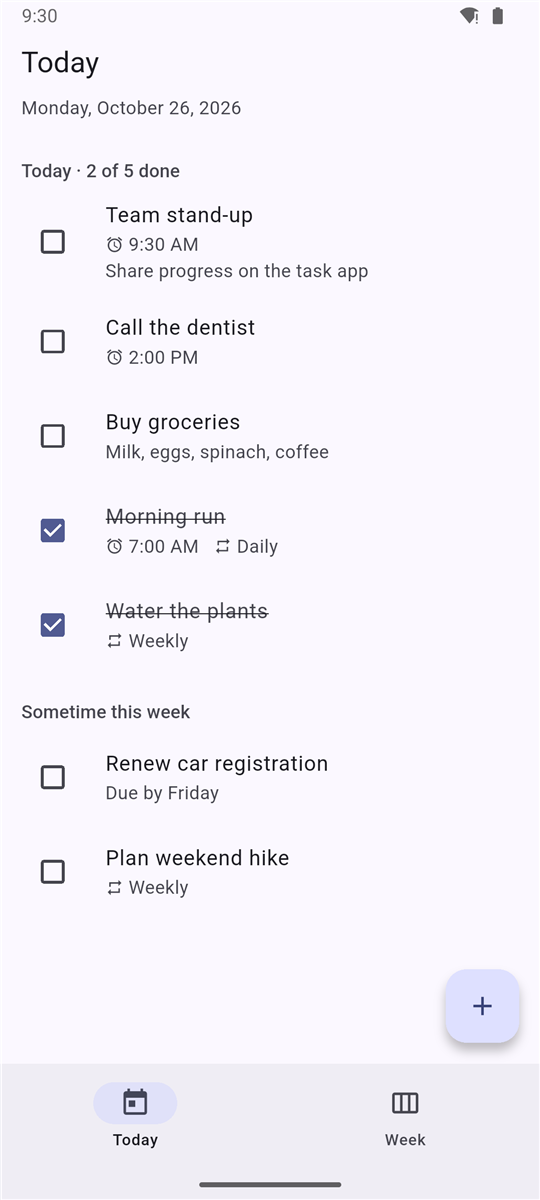
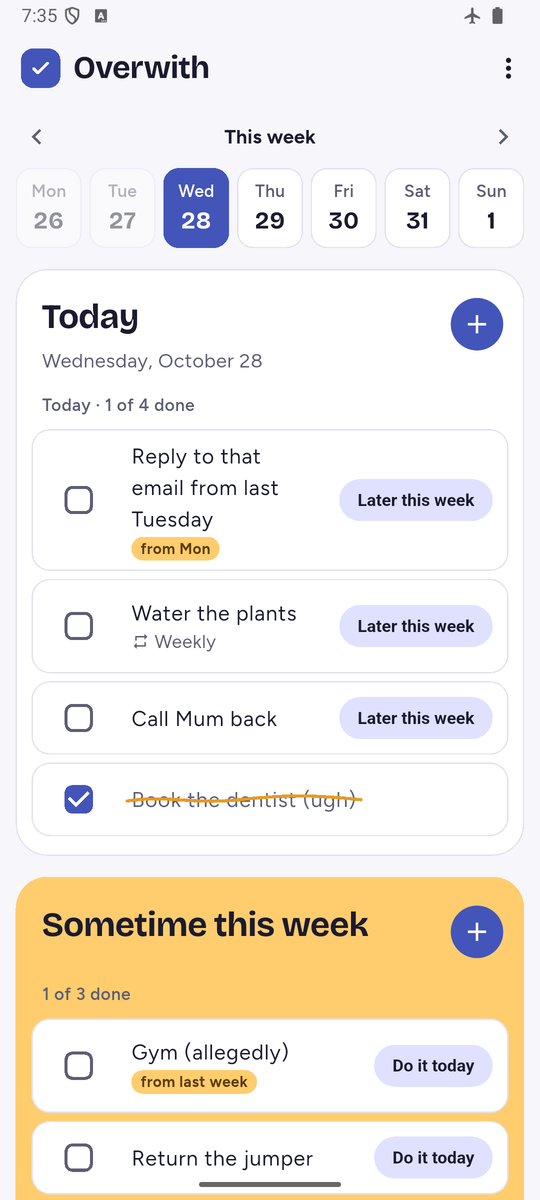
docs: show the redesigned app
New screenshots and an updated feature list, tech stack, design decisions and test count for the website look, one-screen layout, move buttons, sounds and from tags.

diff --git a/README.md b/README.md
@@ -8,22 +8,26 @@ Website: [overwith.app](https://overwith.app) · [Privacy policy](https://overwi
 
 <p align="center">
   <img src="screenshots/today.png" width="200" alt="Today screen">
-  <img src="screenshots/week.png" width="200" alt="Week screen">
+  <img src="screenshots/day.png" width="200" alt="Another day picked from the day buttons">
   <img src="screenshots/edit-task.png" width="200" alt="Edit task form">
   <img src="screenshots/today-dark.png" width="200" alt="Today screen in dark mode">
 </p>
 
 ## Features
 
-- **Today view**: today's tasks with a done count, plus any unfinished "sometime this week" tasks.
-- **Week view**: flexible tasks for the week, then Monday to Sunday with today highlighted. Arrows move to any past or future week, one week at a time.
+- **One screen**: Monday to Sunday buttons along the top, a card for the chosen day, and an amber card for "sometime this week" tasks. Each card has its own + button and a done count.
+- **Pick a day or a week**: tap a day button to see that day's tasks, and tap today's button to go back to Today. Arrows move a week at a time.
+- **Move in one tap**: "Later this week" moves a day task to the week card, and "Do it today" (or the chosen day) moves a week task to that day.
+- **Finished tasks stay**, crossed out with a hand-drawn line, in both cards.
 - **Day or week tasks**: give a task a specific date, or just the week it belongs to.
 - **Repeating tasks**: when you tick off a daily or weekly task, the next copy is created automatically, with its reminder moved forward.
-- **Roll-forward**: unfinished tasks from past days move to today automatically, and "sometime this week" tasks move to the current week. Weekly tasks keep their weekday, and missed repeats don't pile up.
+- **Roll-forward**: unfinished tasks from past days move to today automatically, and "sometime this week" tasks move to the current week. Weekly tasks keep their weekday, and missed repeats don't pile up. A small "from Mon" tag shows where a carried task started.
 - **Reminders**: local notifications at a time you choose. The app asks for notification permission the first time you turn one on. On a locked phone set to hide sensitive content, the task name is hidden.
 - **Quick editing**: tap a task to edit it, tick it off with the checkbox, or swipe left to delete it (with Undo).
-- **Offline**: all data is saved in SQLite on the device. There's no account or server.
-- **Light and dark mode**, following the phone's setting.
+- **Sounds and messages**: a tick, a vibration and a cheeky message when you tick a task off, a ta-da when a list is finished, and a "nope" when you delete one. Sound can be turned off.
+- **Offline**: tasks are saved in SQLite and settings in the app's own storage, both on the device. There's no account or server.
+- **Dark and light mode**: dark by default, with a switch in the ⋮ menu.
+- **Same look as the website**: the colours, fonts and check-mark logo of [overwith.app](https://overwith.app), also used as the app icon.
 - **About screen** with the open-source licenses of the packages the app uses.
 
 ## Tech stack
@@ -33,7 +37,9 @@ Website: [overwith.app](https://overwith.app) · [Privacy policy](https://overwi
 | Framework | Flutter 3.47 / Dart 3.13 |
 | UI | Material 3 |
 | State | `ChangeNotifier` and `InheritedNotifier` (built into Flutter, no extra package) |
-| Storage | SQLite via `sqflite` |
+| Storage | SQLite via `sqflite` for tasks; `shared_preferences` for settings |
+| Sound | `audioplayers`, with sound files generated from the website's notes |
+| Fonts | Bricolage Grotesque, Figtree and Caveat (SIL Open Font License), bundled with the app |
 | Notifications | `flutter_local_notifications` and `timezone` |
 | Testing | `flutter_test` with `sqflite_common_ffi` for fast tests on a computer; `integration_test` for end-to-end tests on a real device |
 | CI | GitHub Actions (`flutter analyze` and `flutter test` on every push and pull request) |
@@ -51,9 +57,9 @@ The app has four layers, each with one job:
 | Layer | Responsibility |
 | --- | --- |
 | **Model** | The `Task` class, date helpers, and recurrence rules (pure Dart, no Flutter) |
-| **Data** | One SQLite table and the queries for "today" and "this week" |
+| **Data** | One SQLite table and the queries for "today" and "this week", with versioned upgrades that keep existing tasks |
 | **State** | `TaskStore`, the single source of truth that every screen reads from |
-| **UI** | Today and Week tabs, the add/edit form, and reusable task rows |
+| **UI** | One main screen (day buttons, a day card and a week card), the add/edit form, and reusable task rows |
 
 Screens never talk to the database directly. Every change goes through `TaskStore`, which saves it, updates its list of tasks in memory, tells the screens to redraw, and schedules or cancels the task's reminder.
 
@@ -67,16 +73,19 @@ Screens never talk to the database directly. Every change goes through `TaskStor
 - **Inexact alarms on Android.** Reminders may arrive a few minutes late, but the app avoids Google Play's restricted "exact alarm" permission.
 - **Missed tasks catch up once, not many times.** If a daily task is missed for three days, it shows up once today rather than three times. The check runs when the app opens and again when it comes back to the front, in case the day changed while it was open.
 - **Permissions are asked for in context.** Notification permission is requested the first time a reminder is turned on, not when the app launches.
+- **Database upgrades keep every task.** Adding the "from Mon" tag needed a new column, so the database is versioned and upgrades in place. A test builds an old-version database and checks that its tasks survive.
+- **Sounds that stay out of the way.** Sounds play alongside music instead of pausing it, stay quiet when the phone is on silent, and can be turned off. They're generated from the same notes the website plays, so app and site sound alike.
+- **One design for app and website.** The colours, fonts and logo are shared, and the app's empty states and messages use the website's words.
 
 ## Testing and quality
 
-- **68 automated tests** across four levels:
-  - model rules (dates, recurrence, validation)
-  - database queries against an in-memory SQLite database
-  - store behaviour, including reminder scheduling with a fake scheduler
-  - widget tests that drive the real screens: adding, editing, deleting, ticking off and switching weeks
+- **106 automated tests** across four levels:
+  - model rules (dates, recurrence, moving tasks, validation)
+  - database queries and upgrades against SQLite
+  - store and settings behaviour, with a fake reminder scheduler and a fake sound player
+  - widget tests that drive the real screens: adding, editing, deleting, ticking off, picking days and weeks, moving tasks, and the sound switch
 - **Static analysis** with Flutter's recommended lint rules; the analyzer reports no issues.
-- **End-to-end tests** run the real app on an Android 36 emulator, with the real database and the real notification system. They add, tick off, edit and delete tasks, switch weeks, and restart the app to check that everything was saved. They also check that a task left over from an earlier day moves to today in the real database. They also check that reminders are scheduled with Android and cancelled again. Testing caught a real crash before release: two "add" buttons conflicted during screen transitions.
+- **End-to-end tests** run the real app on an Android 36 emulator, with the real database and the real notification system. They add, tick off, edit and delete tasks, pick days and weeks, and restart the app to check that everything was saved. They also check that a task left over from an earlier day moves to today, with its "from" date, in the real database, and that reminders are scheduled with Android and cancelled again. Testing caught real problems before release: two "add" buttons that conflicted during screen transitions, and a sound library that kept redrawing the screen after every sound, which would have drained the battery.
 - **Continuous integration** runs the analyzer and the unit and widget tests on every push and pull request. All changes go through pull requests that must pass CI.
 - **Checks before merging**: the analyzer, the unit and widget tests and the end-to-end tests must all pass before a change is merged into `main`. A pull request template keeps this checklist.
 
@@ -94,7 +103,7 @@ Screens never talk to the database directly. Every change goes through `TaskStor
 ## What's next
 
 - Build and test the iOS version
-- Add a custom app icon and a release signing key
+- Add a release signing key
 - Publish on Google Play and the App Store
 
 ## About this project
